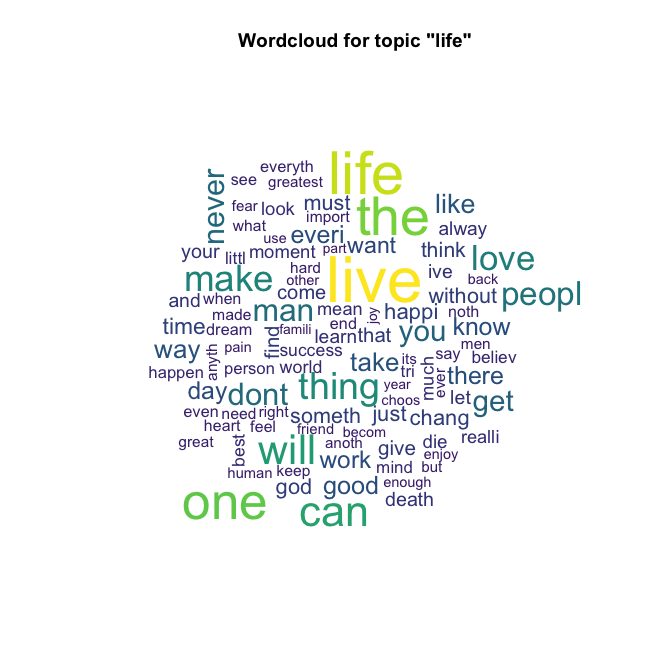
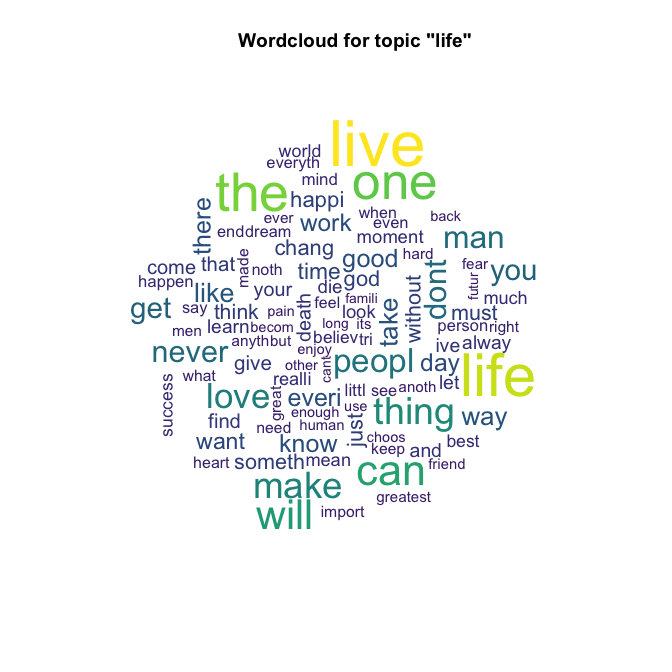
Add SnowballC dependency

Changed region(s): [[0.1875, 0.1562, 0.875, 0.7812]]

diff --git a/README.md b/README.md
@@ -90,6 +90,7 @@ rquotes(n = 1, auth = "Bertrand Russell")
 # Load packages
 library(quotes)
 library(tm)
+library(SnowballC)
 library(wordcloud)
 library(viridis)
 
